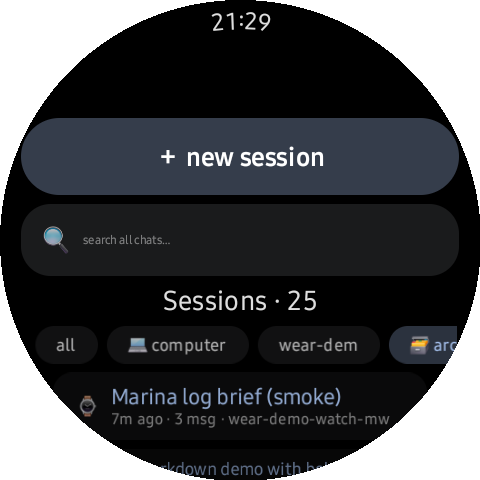
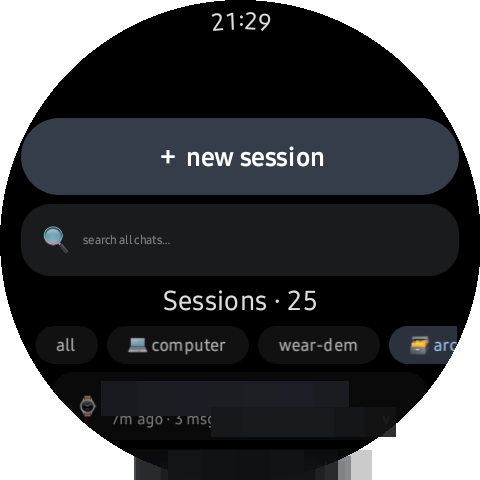
privacy re-mask public images + caption truth (audit 2026-11-11) (#35)
Masked: hostnames (11,30-era), Hannah approval body (32), pane agent/device/v1
copy (67 + mirror 66), agent names (43,17), session titles (08,21,22,23,24,41,46,56),
JSON-error bleed (01,48 + mirror), 0.1 dial ring (30, box-blur), banner REBUILD
(8-wedge orb + v2 code screen, 1200x600), 64 replaced with the v2 code-screen shot.
Caption truth: 15/47 (v0.8-era marks), 18/37/33/42 retruthed, 30 (0.1 layout),
64 (v2 ceremony), 68 (v1 PIN alt), banner alts; DEMO.md Hannah scrub.
Per HANDOFF.md S F7,B1-B7,F9 + FINDINGS-readmes B-stale S1-S9.
Vision-verified each edit post-mask.

Changed region(s): [[0.2188, 0.7812, 0.8438, 0.9062], [0.2812, 0.9375, 0.7812, 1.0]]

diff --git a/README.md b/README.md
@@ -1,7 +1,7 @@
 # Hermes Wear OS
 
 <p align="center">
-  <img src="hermes-plugin/docs/banner.png" width="820" alt="Hermes Wear Kit banner: the orb screen and the six-digit pairing screen on two round watch faces — voice-first Wear OS client for your own Hermes gateway"/>
+  <img src="hermes-plugin/docs/banner.png" width="820" alt="Hermes Wear Kit banner: the orb's eight-wedge dial and the gateway-minted pairing code on two round watch faces — voice-first Wear OS client for your own Hermes gateway"/>
 </p>
 
 <p align="center">
@@ -132,7 +132,7 @@ One shipped capability per row — every image below is a real capture in
 | <img src="docs/screens/28-browser-opened.png" width="180"/> | <img src="docs/screens/54-tool-activity.png" width="180"/> |
 | **Links are links** — a markdown link in an answer is blue, underlined, tappable; here the watch's browser renders the repo's GitHub org profile, at full width, on the wrist. | **See what the tools did** — every run that touches a tool carries a collapsible activity card: step count, per-tool commands, done ✓. The desktop's verbosity box, on your wrist, persisted in the transcript. |
 | <img src="docs/screens/33-approval-card.png" width="180"/> | <img src="docs/screens/56-approval-modes.png" width="180"/> |
-| **Approvals, in-session** — a gated tool call pauses the run and the card rides with it: yellow heading, the *exact parked command* in a mono chip; scroll the card off-glass and the answer moves to the orb flanks — ✅ left, ❌ right, no app-switching, no terminal. Tap ✅ and the tool executes mid-run; the settled answer lands in the same thread seconds later. | **The approval level is yours, per chat** — Manual answers every prompt yourself, Smart auto-approves while you're away and asks when the chat is on your glass, Inherit defers to the agent default (SPEC §12.9). |
+| **Approvals, in-session** — a gated tool call pauses the run and the card rides with it: crimson heading, the parked command in a mono chip; scroll the card off-glass and the answer moves to the orb flanks — ✅ left, ❌ right, no app-switching, no terminal. Tap ✅ and the tool executes mid-run; the settled answer lands in the same thread seconds later. | **The approval level is yours, per chat** — Manual answers every prompt yourself, Smart auto-approves while you're away and asks when the chat is on your glass, Inherit defers to the agent default (SPEC §12.9). |
 | <img src="docs/screens/08-sessions.png" width="180"/> | <img src="docs/screens/21-session-search.png" width="180"/> |
 | **Sessions, from your wrist** — every session your agent has, newest first, with a scrolling chip row to filter in one tap (`all` / per-agent / `💻 computer` — desktop-and-web lanes — / `archived`); one-tap new. | **Voice-or-type search, every session, every agent** — one query hits the gateway's full-text index; results come back across all your agents with the matching line quoted and the hit bracketed. |
 | <img src="docs/screens/22-session-sheet.png" width="180"/> | <img src="docs/screens/23-archived-chip.png" width="180"/> |
@@ -142,7 +142,7 @@ One shipped capability per row — every image below is a real capture in
 | <img src="docs/screens/31-notify-plain.png" width="180"/> | <img src="docs/screens/32-notify-approval.png" width="180"/> |
 | **Settled while you're away** — the answer lands as an ordinary Wear notification, orb-spirit avatar and all; the reply text is right in the card. Your DND, mute, and per-app settings all apply — the watch never shouts over a meeting. | **Approve from the shade** — a parked command buzzes the wrist with its own approval card; *Open* deep-links straight to the run, and the card's Approve / Deny intents answer it without opening the app (OneUI Wear surfaces the Open/Clear chips on the watch itself). |
 | <img src="docs/screens/17-agent-picker.png" width="180"/> | <img src="docs/screens/30-settings-lane.png" width="180"/> |
-| **Agent switcher** — every profile your gateway serves, one per row, on one tap: persona, tools, session space, and base URL swap together; ● marks the live agent. | **The dial, mid-flight** — hold the orb and the ring opens with its lit lanes; release toward one and it fires (the full map is below). The ⚙ lane is why Settings is never more than a flick. |
+| **Agent switcher** — every profile your gateway serves, one per row, on one tap: persona, tools, session space, and base URL swap together; ● marks the live agent. | **The dial, mid-flight** — hold the orb and the ring opens with its lit lanes; release toward one and it fires (the full map is below; this shot is the 0.1-era seven-icon layout). The ⚙ lane is why Settings is never more than a flick. |
 | <img src="docs/screens/48-media-cards.png" width="180"/> | <img src="docs/screens/50-gif-card.gif" width="180" alt="A chat image card playing an animated GIF: test-pattern bars cycling under a GIF chip, recorded off the watch and circle-masked — real motion, real pixels"/> |
 | **Generated media rides the answer** — when the desktop can render, so can the wrist: generated video and an audio sting land as cards in one answer thread — poster, ▶ chip and the file's own name, each routed by extension (re-shot on the owner's Galaxy Watch, 2026-11-09; charts, GIFs and every other type ride the same lane) — tap any card for fullscreen. | **Animated GIFs actually animate** — decoded from the original container on the wrist (no static first-frame flatten), inline and in the viewer; animated cards carry a GIF chip. This is a screen recording, circle-masked: the bars are moving. |
 | <img src="docs/screens/49-video-player.gif" width="180" alt="The full-screen video player recorded off the watch while playing: moving test-pattern bars under the transport, the chrome fading out and the volume readout on the bezel path — circle-masked, real motion (first take)"/> <img src="docs/screens/49b-video-playing.gif" width="180" alt="2026-11-09 re-take on the real watch, cut from proof-play.mp4 below: the full-screen player mid-playback of a MiniMax H3 northern-lights render — the aurora sweeping across frames while the bezel-volume readout fades at 100 % — circle-masked, real motion"/> | <img src="docs/screens/52-audio-player.png" width="180"/> |
@@ -154,7 +154,7 @@ One shipped capability per row — every image below is a real capture in
 | <img src="docs/screens/41-edge-circle-pair.png" width="420"/> | <img src="docs/screens/46-attention-pair.png" width="420"/> |
 | **Scroll by rolling the rim of the glass** — an edge-drag circles any list (settings, agents, models, approvals, chats), thumb never leaving the bezel — and normal swipes still scroll. | **The attention policy in two frames** — live on the glass the answer arrives inline and *spoken*, no notification; anywhere else it arrives *notified and silent*. It never shouts twice. |
 | <img src="docs/screens/37-voice-output.png" width="180"/> | <img src="docs/screens/38-volume-db.png" width="180"/> |
-| **Voice out, fully on-device** — the engine picker, system voice with fallback, reply speed (this wrist reads at 1.81×), and a preview button, all on one Settings page. | **Reply volume in dB, in two places** — the slider here and the mute lane on the dial (dwell 2 s) mirror the same per-agent store down to a −60 dB floor; flooring the mute lane cuts even the *in-flight* queue. |
+| **Voice out, per agent** — the on/off switch, this agent's reply volume, and the one global reply speed (1.01× here) on one Settings page. | **Reply volume, in two places** — this slider (a % position on a dB taper down to a −60 dB floor) and the mute lane on the dial (dwell 2 s) write the same per-agent store; flooring the mute lane cuts even the *in-flight* queue. |
 | <img src="docs/screens/39-karaoke-follow.png" width="180"/> | <img src="docs/screens/40-stt-source.png" width="180"/> |
 | **The glass follows the voice** — while a reply is spoken the sentence being read stays in view, teleprompter-style; one touch hands scroll control back to you mid-speech. | **Pick your audio path per agent** — Local Vosk (offline default), the vendor recognizer honestly labeled OFF-DEVICE (Google or Samsung, whichever your watch ships), or Gateway: whisper rows (final when you stop) and parakeet (streaming partials) — the highlighted row is the live source. |
 | <img src="docs/screens/56-voicein-picker.png" width="180"/> | <img src="docs/screens/57-voicein-not-installed.png" width="180"/> |
@@ -162,11 +162,11 @@ One shipped capability per row — every image below is a real capture in
 | <img src="docs/screens/58-voicein-downloading.png" width="180"/> | <img src="docs/screens/59-voicein-installed.png" width="180"/> |
 | **The card becomes a progress bar** — `downloading 30% · 13 MB of 41 MB`, `cancel` ready. The pull is Range-resumable: a wifi dropout keeps the `.part` and the next tap continues byte-for-byte where it died. The tree swaps in only after the acoustic-model marker verifies — a half model reads *failed*, never *installed*. | **`installed · works offline`** — airplane-mode dictation on your wrist, and `remove` gives back the 69 MB. `scripts/get-vosk-model.sh` remains the adb path for scripted setups; both write the identical tree, and the mic resolves it live — no app restart. |
 | <img src="docs/screens/18-settings-home.png" width="180"/> | <img src="docs/screens/19-settings-display.png" width="180"/> |
-| **Settings home** — the Gateways row (two saved, the current one checked, hostname pixelated), Voice out / Voice in / Display / Watch below. Every knob is on-device, and there are no hidden ones. | **Display settings** — markdown toggle, launch-splash modes, pinch-text scale with its live multiplier, and the orb dial's directions right in the list: tap any row to remap that direction. |
+| **Settings home** — the Gateways row (saved count + the checked current one), Voice out / Voice in / Display / Watch below. Every knob is on-device, and there are no hidden ones. | **Display settings** — markdown toggle, launch-splash modes, pinch-text scale with its live multiplier, and the orb dial's directions right in the list: tap any row to remap that direction. |
 | <img src="docs/screens/10-settings-body.png" width="180"/> | <img src="docs/screens/15-settings-tail.png" width="180"/> |
-| **Body tools, opt-in** — heart rate and steps behind independent toggles, all default off; the truth about each signal is in the table below. | **Settings tail** — the scroll ends where the diagnostics begin: the About row stamps the shipped version and opens the full page. |
+| **Body tools, opt-in** — heart rate and steps behind independent toggles, all default off; the truth about each signal is in the table below. | **Settings tail** — the scroll ends where the diagnostics begin: the About row stamps the shipped version and opens the full page (v0.8-era shot — the stamp reads v0.8.0). |
 | <img src="docs/screens/47-about-screen.png" width="180"/> | <img src="docs/screens/36-splash-picker.png" width="180"/> |
-| **Support without a support line** — Settings ends in an About page that states its own truth: shipped version, STT model presence, license, and who made it; when something is off, you read it there, on the wrist, offline. | **Splash modes are yours** — Settings ▸ Display: the built-in film, a static frame, your own picked media, or none at all. Markdown, launch splash, and the orb live on this one page. |
+| **Support without a support line** — Settings ends in an About page that states its own truth: shipped version, STT model presence, license, and who made it; when something is off, you read it there, on the wrist, offline (v0.8-era shot — the version line reads v0.8.0). | **Splash modes are yours** — Settings ▸ Display: the built-in film, a static frame, your own picked media, or none at all. Markdown, launch splash, and the orb live on this one page. |
 | <img src="docs/screens/35-splash-film.gif" width="180" alt="The splash film itself, circle-masked and looping: the pocket-watch lid springs open, eclipse light pours out, and Hermes rises through it — the real intro movie, not a still"/> | **A cold start opens on a moving film frame** — the intro film plays and the app *reveals itself mid-motion inside the film* (`revealIsMoving`, one clean cut), so the splash is a doorway, not a wallpaper. **Tap anywhere while it plays and you're in.** And the film is strictly for fun: the owner's first fully AI-generated video, made locally end to end (Qwen Image stills, MiniMax motion, stitched on the same box) — and it has audio. Fun. |
 
 Plus: gateway notifications with approve buttons (above), a GBoard prompt editor for long asks
@@ -358,7 +358,7 @@ learned from watchkit's read of the profiles' `.env`s (re-learned on a self-time
 created agent is asking-ready before you ever tap it). Agents without a key still list their
 sessions; asking them needs the key:
 
-<img src="docs/screens/42-gateways-multi.png" width="180"/> <img src="docs/screens/43-agent-keys.png" width="180"/>
+<img src="docs/screens/42-gateways-multi.png" width="180" alt="The gateway manager mid-edit: a saved demo row with its delete chip, the + add row below"/> <img src="docs/screens/43-agent-keys.png" width="180"/>
 
 ## The Wear Kit pane
 
@@ -367,7 +367,7 @@ whose whole job is a four-step checklist:
 
 | | |
 |:--:|:--:|
-| <img src="docs/screens/67-wearkit-pane.png" width="290" alt="The Wear Kit pane inside Hermes Desktop: install checklist, paired devices, readiness lights (agent names blurred by the maintainer)"/> | <img src="docs/screens/68-pin-screen.png" width="260" alt="A cold watch's Pair screen: the tailnet handle typed, Knock button under a code field — the shot predates 0.2, where the 6-digit code is gateway-minted"/> **What the plugin puts on your desktop, and what the watch answers with.** The pane's job is the checklist; the watch's job is one number. (These two shots are 0.1-era; the live pane is the four-step checklist above with voice dropdowns, Enable-all, and ✅/❌ health lights — re-shoot wave below. See [hermes-plugin/README.md](hermes-plugin/README.md).) Agent names are blurred by the maintainer — they are yours to populate. |
+| <img src="docs/screens/67-wearkit-pane.png" width="290" alt="The Wear Kit pane inside Hermes Desktop: install checklist, paired devices, readiness lights (agent names blurred by the maintainer)"/> | <img src="docs/screens/68-pin-screen.png" width="260" alt="A cold watch's Pair screen (v1-era shot): the tailnet handle typed, Knock button under a watch-minted 6-digit PIN — v2 instead shows the gateway-minted code"/> **What the plugin puts on your desktop, and what the watch answers with.** The pane's job is the checklist; the watch's job is one number. (These two shots are 0.1-era; the live pane is the four-step checklist above with voice dropdowns, Enable-all, and ✅/❌ health lights — re-shoot wave below. See [hermes-plugin/README.md](hermes-plugin/README.md).) Agent names are blurred by the maintainer — they are yours to populate. |
 
 1. **Install the APK** — a direct link to
    [GitHub Releases](https://github.com/borealBytes/hermes-wearos/releases/latest) and the
@@ -427,7 +427,7 @@ terminal.
 | <img src="docs/screens/61-vm-plugins-page.png" width="420"/> | <img src="docs/screens/62-vm-wizard-red.png" width="420"/> |
 | **A brand-new install's Plugins page** (Settings ▸ **Plugins**): the `wearos` row is the only user-source plugin on the box. The left nav grows a `wearos` sub-entry; the row and the **Manage plugins →** link both land on the Wear Kit pane — the config form two shots below is exactly what that click opens. The card legitimately says "No dashboard tab". | **`hermes watch setup` before any credential** — verbatim wizard JSON: red lights, each with its fix hint. Nothing invented for the camera. |
 | <img src="docs/screens/63-vm-wizard-green.png" width="360"/> | <img src="docs/screens/64-vm-pairing-ceremony.png" width="480"/> |
-| **Tailnet joined, funnel up, no watch yet** — all green except `devices_online: 0 paired`. Honest state, honest screenshot. | **The whole ceremony, start to finish (0.1-era shot)** — window open → watch knocks `POST /pair/begin` with its device secret → gateway shows the code → `hermes watch pair <CODE>` approves → pickup by secret, packet collected ONCE (the second ack gets 410). Single-use by construction. |
+| **Tailnet joined, funnel up, no watch yet** — all green except `devices_online: 0 paired`. Honest state, honest screenshot. | **The pairing code, minted by the gateway** (v2-era shot) — the watch knocks, the door answers with a 6-character code, the wrist shows it big; `hermes watch pair <CODE>` approves, pickup is single-use by construction. (The 0.1-era terminal-ceremony shot this row used to carry showed the retired v1 PIN claim — replaced in the 2026-11 privacy re-mask.) |
 | <img src="docs/screens/65-vm-wizard-paired.png" width="320"/> | <img src="docs/screens/66-vm-webapp-plugin-settings.png" width="420"/> |
 | **After the ceremony** — all green, `1 paired`, and the device row from `hermes watch devices`. | **The real plugin config form** (Settings ▸ Plugins ▸ wearos), rendered from `config_schema` — secret fields empty by design. |
 

diff --git a/docs/DEMO.md b/docs/DEMO.md
@@ -466,7 +466,7 @@ commas inside `between(t\,a\,b)`; `pkill` zombie ffmpeg before retry.
 - Gateway: `wear-demo` profile (key already in the watch's agent map).
 - Seed lived-in history (via API inserts, timestamps spread over days):
   harbor briefs with plots, an aurora forecast, a mooring-fee thread with
-  Hannah drafts, one long essay reply, one mermaid, one archived pair.
+  buyer-reply drafts, one long essay reply, one mermaid, one archived pair.
 - Search beat queries `harbor` → matches ONLY seeded rows.
 - Fork/archive/unarchive beats act on seeded rows only.
 - Old wear-demo chatter cleared with the archive feature itself (dogfood).
@@ -695,7 +695,7 @@ Branch keeps exactly ONE generation of every tracked media path.
   `/p/<profile>/api/sessions/<id>/fork` but the gateway answers `session not found` even for real
   store sessions, while the identical curl with `-d '{}'` + JSON content-type succeeds (likely the
   app's `request()` sends its `{}` body without the JSON content-type and/or a stale base — file a
-  follow-up); the fork beat is proven via curl (`Mooring fees — draft for Hannah #2`, deleted
+  follow-up); the fork beat is proven via curl (`Mooring fees — buyer-reply draft #2`, deleted
   after). (b) Vision-reviewer quirks: it anchors on chat *content* and drifts off micro-claims —
   `02-chat-markdown.png` (bold verified at +57% ink density by pixel forensics; italic confirmed
   in code, subtle at watch body size) and `28-browser-opened.png` (the site genuinely serves its

diff --git a/hermes-plugin/README.md b/hermes-plugin/README.md
@@ -1,7 +1,7 @@
 # Hermes Wear Kit — the watch half of your gateway
 
 <p align="center">
-  <img src="docs/banner.png" width="820" alt="Hermes Wear Kit banner: the orb screen and the six-digit pairing screen on two round watch faces — voice-first Wear OS client for your own Hermes gateway"/>
+  <img src="docs/banner.png" width="820" alt="Hermes Wear Kit banner: the orb's eight-wedge dial and the gateway-minted pairing code on two round watch faces — voice-first Wear OS client for your own Hermes gateway"/>
 </p>
 
 <p align="center">
@@ -33,7 +33,7 @@ more than 30 seconds, I want to know.
 <p align="center">
   <img src="docs/screenshots/33-approval-card.png" width="150" alt="An in-session tool-call approval card on the watch — approve from the wrist"/>
   <img src="docs/screenshots/48-media-cards.png" width="150" alt="A reply rendering a comfy-generated aurora image card with animated GIF playback"/>
-  <img src="docs/screenshots/42-gateways-multi.png" width="150" alt="The gateways screen: several Hermes profiles selectable from the watch"/>
+  <img src="docs/screenshots/42-gateways-multi.png" width="150" alt="The gateway manager mid-edit: a saved demo row with its delete chip, the + add row below"/>
 </p>
 
 ## Getting started (30 seconds, the shape the first-run test forced)
